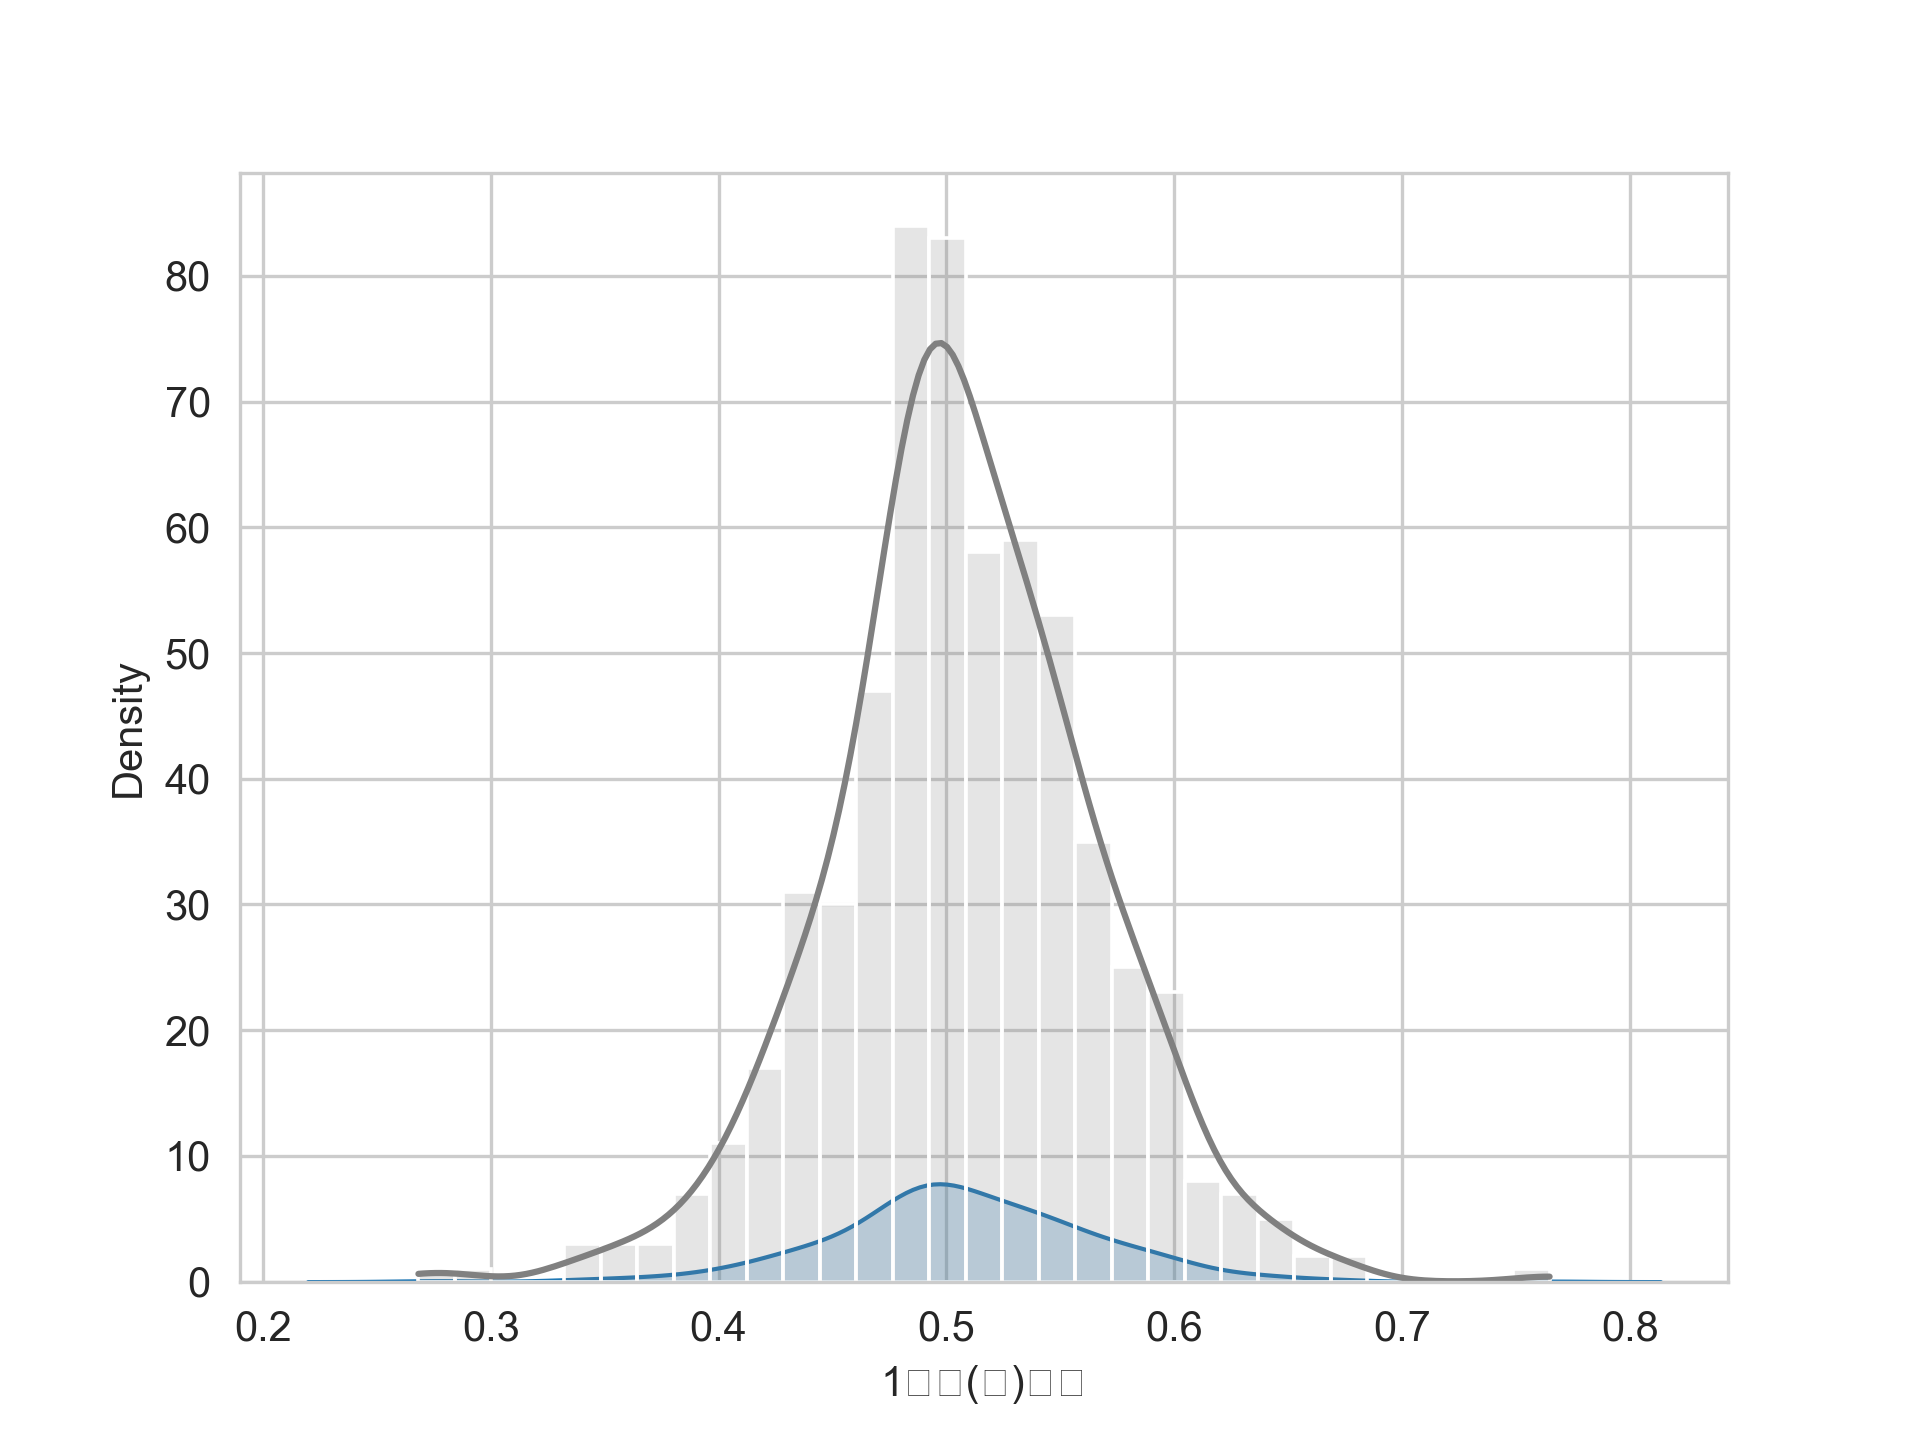
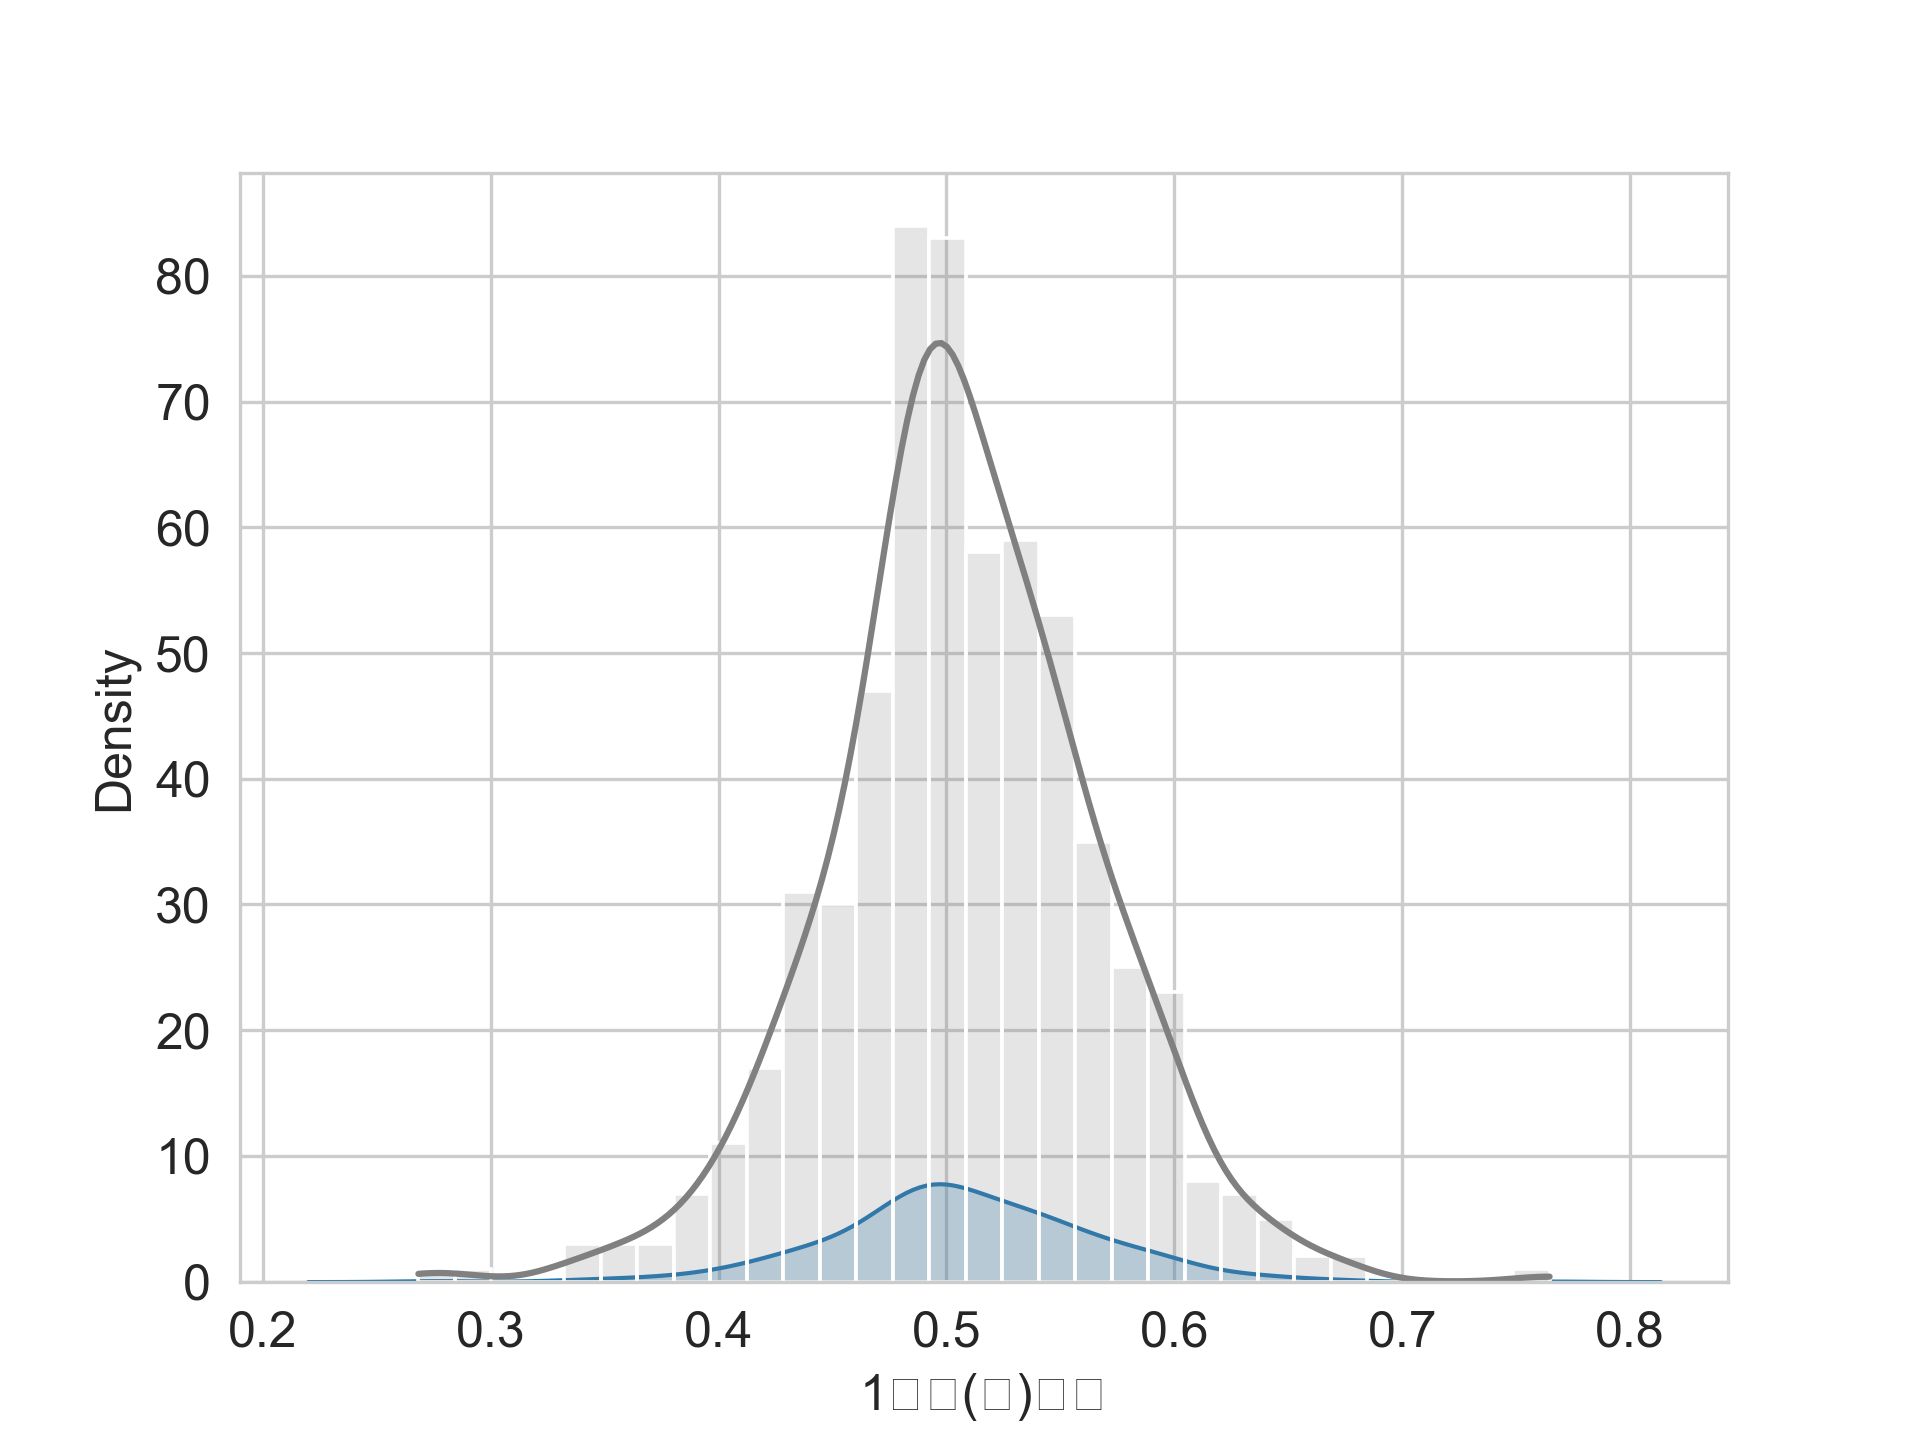
변수명 영어로 변경하기

diff --git a/main.py b/main.py
@@ -12,6 +12,8 @@ from pyproj import CRS
 from matplotlib.colors import LinearSegmentedColormap
 import seaborn as sns
 
+plt.rcParams['font.family'] = 'NanumGothic'
+plt.rcParams['font.size'] = 12
 
 # Set the max_columns option to None
 pd.set_option('display.max_columns', None)
@@ -279,109 +281,198 @@ gdf = points.to_crs(new_crs)
 map_df = subset
 joined_df = gpd.sjoin(map_df, gdf, how='inner', op='contains')
 
+# joined_df_columns = joined_df.columns
+# for col in joined_df_columns:
+#     print(col)
 
-##################################################
-# # plot points and polygon (simple overlay)
-# fig, ax = plt.subplots(figsize=(10,10))
+print(joined_df['설립구분'].unique())
+print(joined_df['학교특성'].unique())
+print(joined_df['설립유형'].unique())
+print(joined_df['주야구분'].unique())
+
+joined_df['private'] = joined_df['print(joined_df['설립구분'].unique())'].apply(lambda x: 1 if x == '사립' else 0)
+joined_df['private'] = joined_df['print(joined_df['설립구분'].unique())'].apply(lambda x: 1 if x == '사립' else 0)
+joined_df['private'] = joined_df['print(joined_df['설립구분'].unique())'].apply(lambda x: 1 if x == '사립' else 0)
+joined_df['private'] = joined_df['print(joined_df['설립구분'].unique())'].apply(lambda x: 1 if x == '사립' else 0)
+
+# joined_df = joined_df.drop(columns=['학교급코드', '제외여부', '제외사유', '학교특성', '_merge', '전화번호', '팩스번호'])
+# print(joined_df['private'].unique())
 #
-# polygons.plot(ax=ax, alpha=0.5, edgecolor='black')
-# joined.plot(ax=ax, color='red', markersize=5)
+# grades = ['1학년', '2학년', '3학년', '4학년', '5학년', '6학년']
+# genders = ['남']
 #
-# plt.show()
+# boy_cols = [f"{g}(남)" for g in grades]
+# girl_cols = [f"{g}(여)" for g in grades]
+# boy_ratio = joined_df[boy_cols].describe()
+# girl_ratio = joined_df[girl_cols].describe()
+#
+#
+# # Define a mapping of Korean column names to English column names
+# columns_mapping = {
+#     "OBJECTID": "object_id",
+#     "HAKGUDO_ID": "hakgudo_id",
+#     "HAKGUDO_NM": "hakgudo_name",
+#     "HAKGUDO_GB": "hakgudo_type",
+#     "SD_CD": "sd_code",
+#     "SGG_CD": "sgg_code",
+#     "EDU_UP_CD": "edu_up_code",
+#     "EDU_UP_NM": "edu_up_name",
+#     "EDU_CD": "edu_code",
+#     "EDU_NM": "edu_name",
+#     "geometry": "geometry",
+#     "index_right": "index_right",
+#     "시도교육청": "sido_edu_office",
+#     "지역교육청": "local_edu_office",
+#     "지역": "region",
+#     "정보공시 학교코드": "school_code",
+#     "학교명": "school_name",
+#     "설립구분": "foundation_type",
+#     "1학년(남)": "1st_grade_male",
+#     "1학년(여)": "1st_grade_female",
+#     "2학년(남)": "2nd_grade_male",
+#     "2학년(여)": "2nd_grade_female",
+#     "3학년(남)": "3rd_grade_male",
+#     "3학년(여)": "3rd_grade_female",
+#     "4학년(남)": "4th_grade_male",
+#     "4학년(여)": "4th_grade_female",
+#     "5학년(남)": "5th_grade_male",
+#     "5학년(여)": "5th_grade_female",
+#     "6학년(남)": "6th_grade_male",
+#     "6학년(여)": "6th_grade_female",
+#     "특수학급(남)": "special_class_male",
+#     "특수학급(여)": "special_class_female",
+#     "순회학급(남)": "mobile_class_male",
+#     "순회학급(여)": "mobile_class_female",
+#     "계(남)": "total_male",
+#     "계(여)": "total_female",
+#     "총계": "total",
+#     "설립유형": "foundation_type",
+#     "주야구분": "day_night_division",
+#     "개교기념일": "foundation_anniversary",
+#     "설립일": "foundation_date",
+#     "법정동코드": "legal_dong_code",
+#     "주소내역": "address_detail",
+#     "상세주소내역": "address_detail2",
+#     "우편번호": "zip_code",
+#     "학교도로명 우편번호": "road_address_zip_code"}
 
-# count the number of points for each polygon
-counts = joined.index.value_counts()
 
-# select polygons with more than one point
-multi_point_polygons = counts[counts > 1].index.tolist()
-
-# print the list of polygons with more than one point
-print(multi_point_polygons)
-
-# generate boys/ratio info of each grade
-grades = ['1학년', '2학년', '3학년', '4학년', '5학년', '6학년']
-
-for grade in grades:
-    total_column = f"{grade}(합계)"
-    columns_to_sum = [f"{grade}(남)", f"{grade}(여)"]
-    joined_df[total_column] = joined_df[columns_to_sum].sum(axis=1)
-
-grades = ['1학년', '2학년', '3학년', '4학년', '5학년', '6학년']
-genders = ['남']
-
-for grade in grades:
-    for gender in genders:
-        column_name = f"{grade}({gender})"
-        column_name_denominator = f"{grade}(합계)"
-        joined_df[column_name + '비율'] = joined_df[column_name]/joined_df[column_name_denominator]
-
-# # plot boys ratio
-# fig, ax = plt.subplots(figsize=(10, 10))
-# joined_df.plot(column='1학년(남)비율', cmap='Blues', ax=ax, legend=True)
-# plt.show()
-
+# ##################################################
+# # # plot points and polygon (simple overlay)
+# # fig, ax = plt.subplots(figsize=(10,10))
+# #
+# # polygons.plot(ax=ax, alpha=0.5, edgecolor='black')
+# # joined.plot(ax=ax, color='red', markersize=5)
+# #
+# # plt.show()
+#
+# # count the number of points for each polygon
+# counts = joined.index.value_counts()
+#
+# # select polygons with more than one point
+# multi_point_polygons = counts[counts > 1].index.tolist()
+#
+# # print the list of polygons with more than one point
+# print(multi_point_polygons)
+#
+# # generate boys/ratio info of each grade
+# grades = ['1학년', '2학년', '3학년', '4학년', '5학년', '6학년']
+#
+# for grade in grades:
+#     total_column = f"{grade}(합계)"
+#     columns_to_sum = [f"{grade}(남)", f"{grade}(여)"]
+#     joined_df[total_column] = joined_df[columns_to_sum].sum(axis=1)
+#
+# grades = ['1학년', '2학년', '3학년', '4학년', '5학년', '6학년']
+# genders = ['남']
+#
 # for grade in grades:
 #     for gender in genders:
-#         plot_name = f"{grade}(남)비율"
-#         fig, ax = plt.subplots(figsize=(10, 10))
-#         joined_df.plot(column=plot_name, cmap='Blues', ax=ax, legend=True)
-#         plt.savefig(f'{plot_name}.png', dpi=300)
-
-# # create a custom colormap
-# cmap = LinearSegmentedColormap.from_list('custom', [(0, 'red'), (0.5, 'white'), (1, 'blue')])
+#         column_name = f"{grade}({gender})"
+#         column_name_denominator = f"{grade}(합계)"
+#         joined_df[column_name + '비율'] = joined_df[column_name]/joined_df[column_name_denominator]
 #
-# # loop through grades and genders and plot the data
-# for grade in grades:
-#     for gender in genders:
-#         plot_name = f"{grade}({gender})비율"
-#         fig, ax = plt.subplots(figsize=(10, 10))
-#         vmin, vmax = joined_df[plot_name].min(), joined_df[plot_name].max()
-#         norm = plt.Normalize(vmin=vmin, vmax=vmax)
-#         joined_df.plot(column=plot_name, cmap=cmap, ax=ax, norm=norm, legend=True)
-#         plt.savefig(f'{plot_name}.png', dpi=100)
-
-
-# sns.set_theme(style="whitegrid")
-# sns.histplot(data=joined_df, x="1학년(남)비율", kde=True)
+# # # plot boys ratio
+# # fig, ax = plt.subplots(figsize=(10, 10))
+# # joined_df.plot(column='1학년(남)비율', cmap='Blues', ax=ax, legend=True)
+# # plt.show()
 #
-# # create the plot
-# fig, ax = plt.subplots()
-# ax.hist(joined_df["1학년(남)비율"], bins=30, density=True)
+# # for grade in grades:
+# #     for gender in genders:
+# #         plot_name = f"{grade}(남)비율"
+# #         fig, ax = plt.subplots(figsize=(10, 10))
+# #         joined_df.plot(column=plot_name, cmap='Blues', ax=ax, legend=True)
+# #         plt.savefig(f'{plot_name}.png', dpi=300)
 #
-# # set labels and title
-# ax.set_xlabel('Value')
-# ax.set_ylabel('Density')
-# ax.set_title('Normal Distribution')
+# # # create a custom colormap
+# # cmap = LinearSegmentedColormap.from_list('custom', [(0, 'red'), (0.5, 'white'), (1, 'blue')])
+# #
+# # # loop through grades and genders and plot the data
+# # for grade in grades:
+# #     for gender in genders:
+# #         plot_name = f"{grade}({gender})비율"
+# #         fig, ax = plt.subplots(figsize=(10, 10))
+# #         vmin, vmax = joined_df[plot_name].min(), joined_df[plot_name].max()
+# #         norm = plt.Normalize(vmin=vmin, vmax=vmax)
+# #         joined_df.plot(column=plot_name, cmap=cmap, ax=ax, norm=norm, legend=True)
+# #         plt.savefig(f'{plot_name}.png', dpi=100)
 #
-# # save the plot to a file
-# plt.savefig('distribution.png', dpi=100)
-
-# Set the font family to one that supports Hangul characters
-plt.rcParams['font.family'] = 'NanumGothic'
-
-sns.set_style("whitegrid")
-
-# create sample data
-data = sns.load_dataset("tips")
-
-# create distribution plot
-sns.kdeplot(data=joined_df["1학년(남)비율"], fill=True)
-
-# add histogram line
-sns.histplot(data=joined_df["1학년(남)비율"], color="grey", alpha=.2, kde=True)
-
-# save plot
-plt.savefig("distribution_plot_with_histogram.png", dpi=300)
-
-
-
-# create histogram plot
-fig, ax = plt.subplots(figsize=(8, 5))
-sns.histplot(data=joined_df["1학년(남)비율"], ax=ax, color="grey", alpha=.2, kde=True)
-
-# add KDE plot on twin Axes
-ax2 = ax.twinx()
-sns.kdeplot(data=joined_df["1학년(남)비율"], shade=True, ax=ax2, color='red')
-ax2.set_ylabel('KDE', color='red')
-ax2.tick_params(axis='y', labelcolor='red')
-plt.show()
+#
+# # sns.set_theme(style="whitegrid")
+# # sns.histplot(data=joined_df, x="1학년(남)비율", kde=True)
+# #
+# # # create the plot
+# # fig, ax = plt.subplots()
+# # ax.hist(joined_df["1학년(남)비율"], bins=30, density=True)
+# #
+# # # set labels and title
+# # ax.set_xlabel('Value')
+# # ax.set_ylabel('Density')
+# # ax.set_title('Normal Distribution')
+# #
+# # # save the plot to a file
+# # plt.savefig('distribution.png', dpi=100)
+#
+# # Set the font family to one that supports Hangul characters
+# plt.rcParams['font.family'] = 'NanumGothic'
+#
+# sns.set_style("whitegrid")
+#
+# # create distribution plot
+# sns.kdeplot(data=joined_df["1학년(남)비율"], fill=True)
+#
+# # add histogram line
+# sns.histplot(data=joined_df["1학년(남)비율"], color="grey", alpha=.2, kde=True)
+#
+# # save plot
+# plt.savefig("distribution_plot_with_histogram.png", dpi=300)
+#
+# # # create histogram plot
+# # fig, ax = plt.subplots(figsize=(8, 5))
+# # sns.histplot(data=joined_df["1학년(남)비율"], ax=ax, color="grey", alpha=.2, kde=True)
+# #
+# # # add KDE plot on twin Axes
+# # ax2 = ax.twinx()
+# # sns.kdeplot(data=joined_df["1학년(남)비율"], shade=True, ax=ax2, color='red')
+# # ax2.set_ylabel('KDE', color='red')
+# # ax2.tick_params(axis='y', labelcolor='red')
+# # plt.show()
+#
+#
+# # # Define your data and groups
+# # grades = ['1학년', '2학년', '3학년', '4학년', '5학년', '6학년']
+# # data = [joined_df[f"{g}(남)비율"] for g in grades]
+# #
+# # # Create a grid of subplots
+# # fig, axes = plt.subplots(nrows=2, ncols=3, figsize=(12, 8))
+# # axes = axes.flatten()
+# #
+# # # Loop over each group of data and plot a histogram on the corresponding subplot
+# # for i, (g, d) in enumerate(zip(grades, data)):
+# #     ax = axes[i]
+# #     sns.histplot(data=d, ax=ax, color="grey", alpha=.2, kde=True)
+# #     ax.set_title(g)
+# #
+# # # Adjust spacing between subplots and add a title to the big plot
+# # fig.tight_layout()
+# # fig.suptitle('Histograms by Grade')
